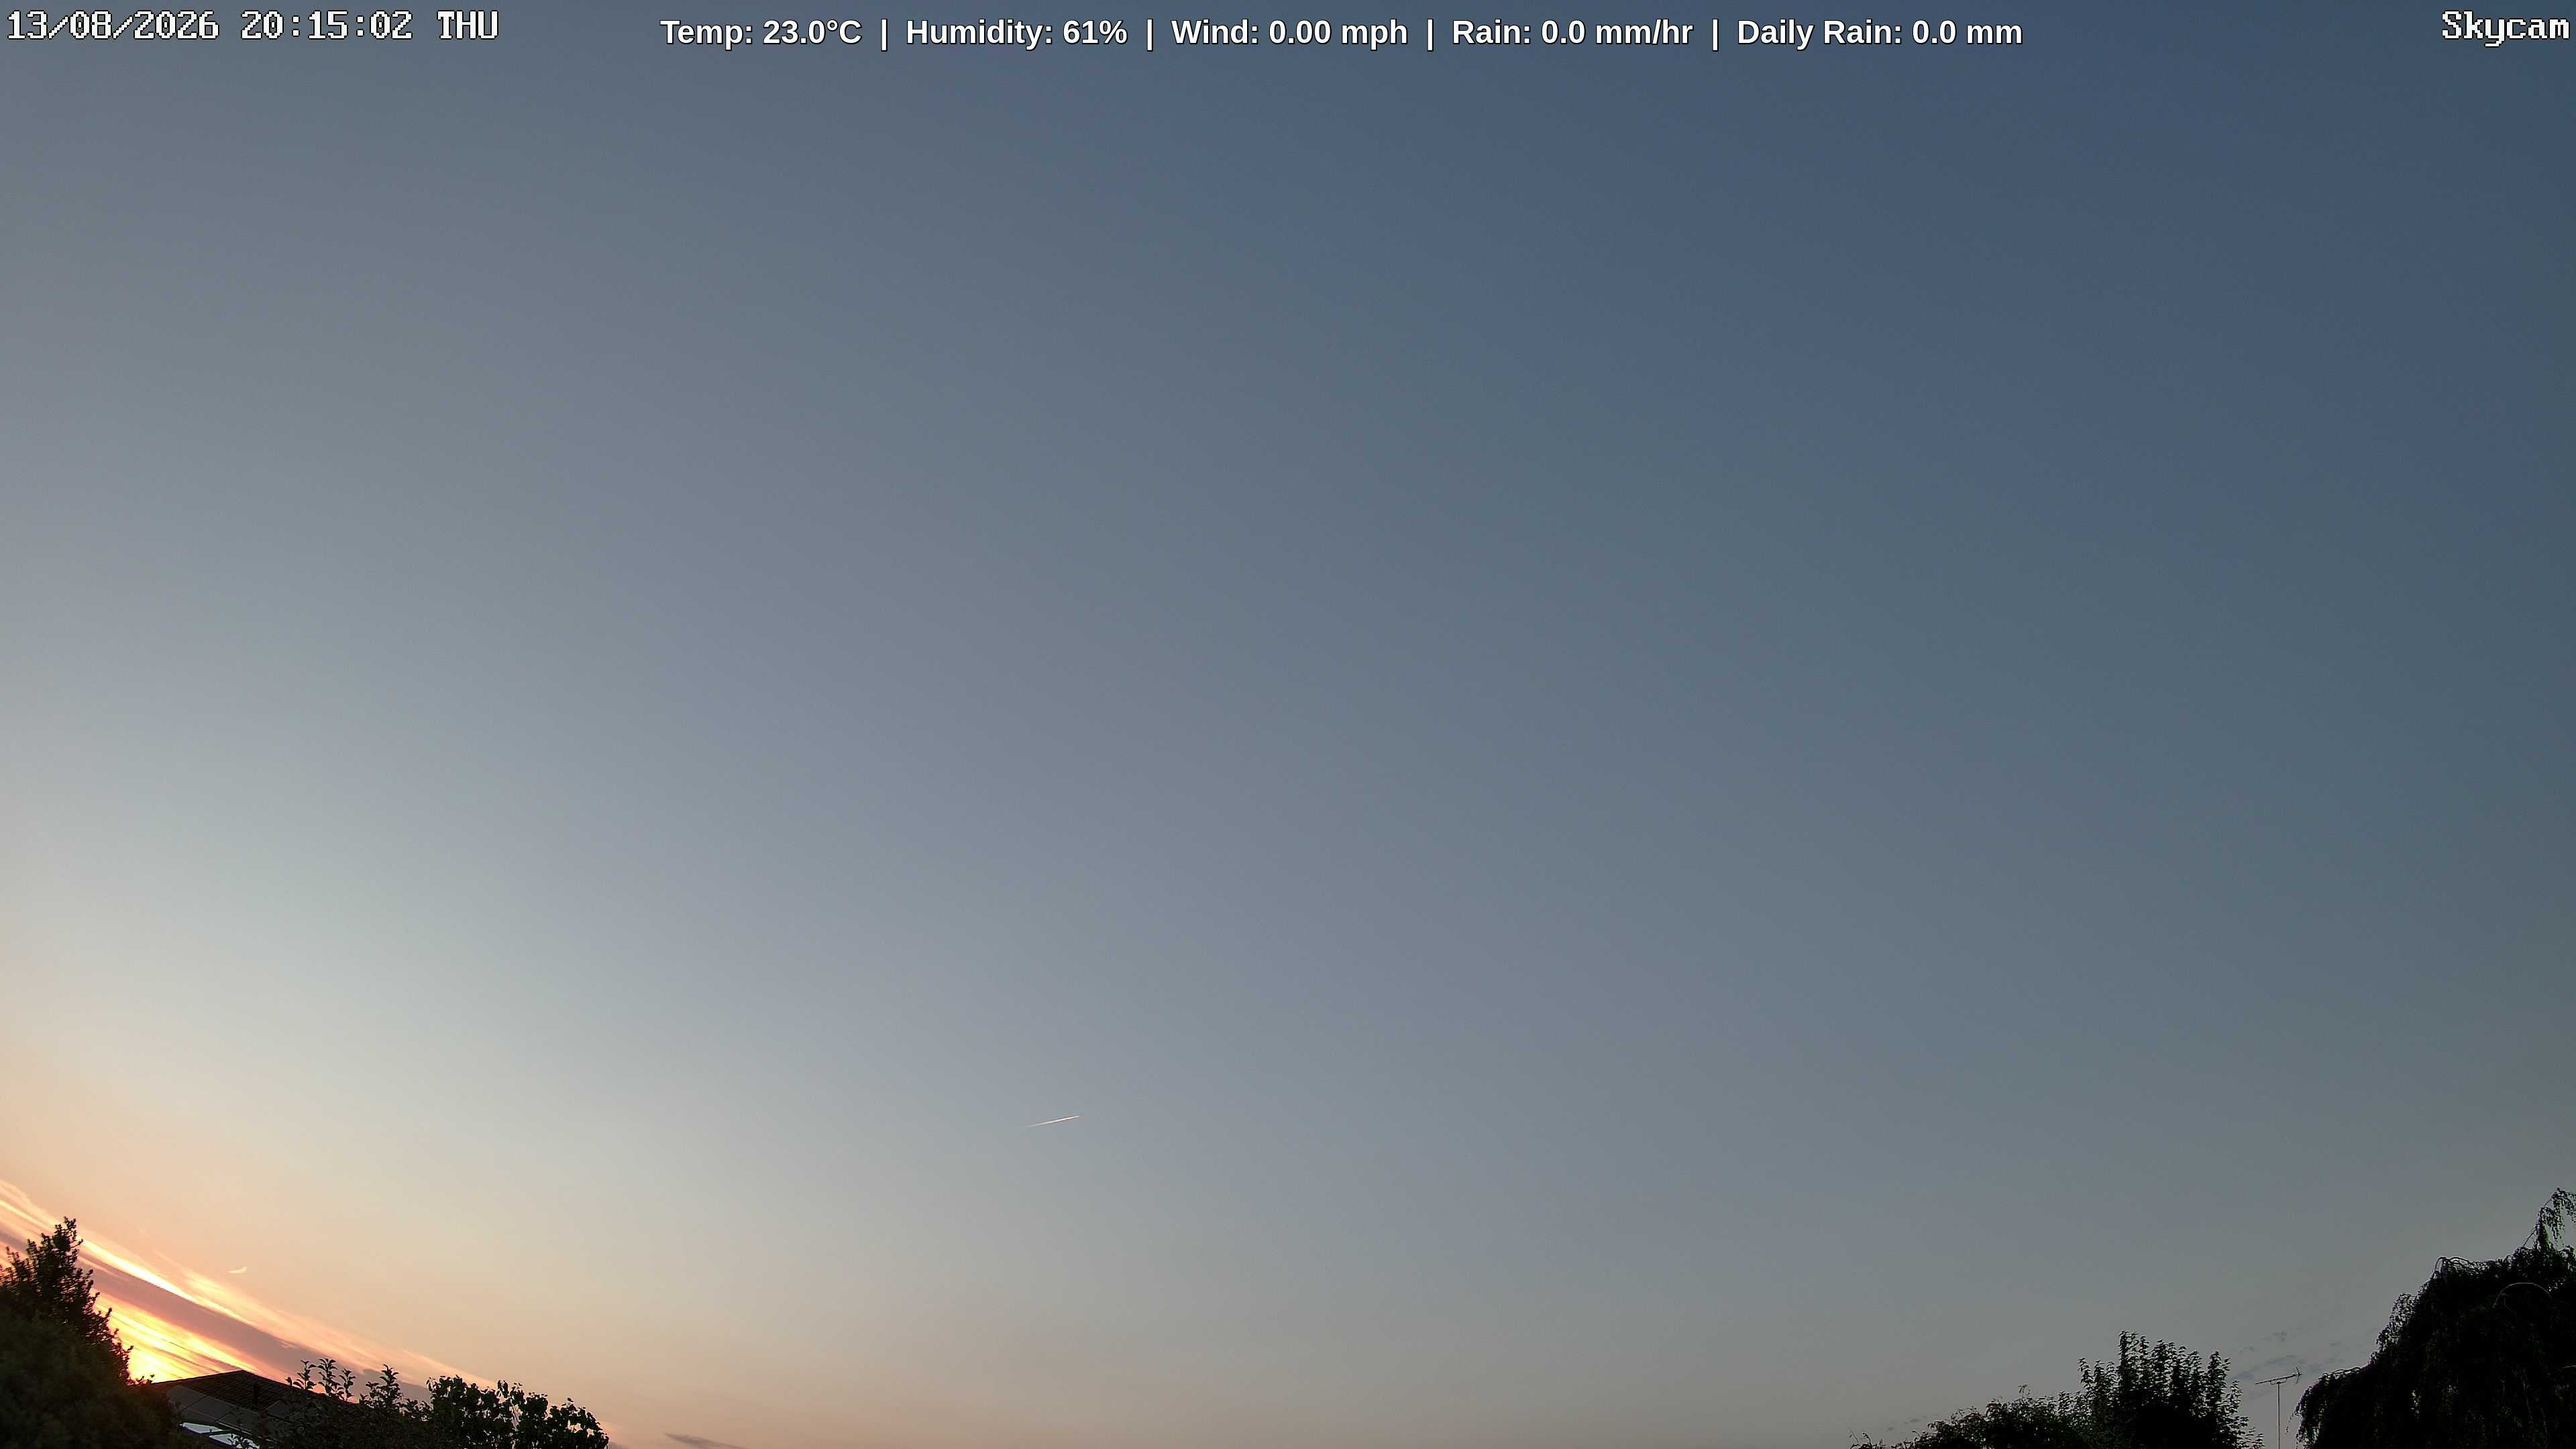
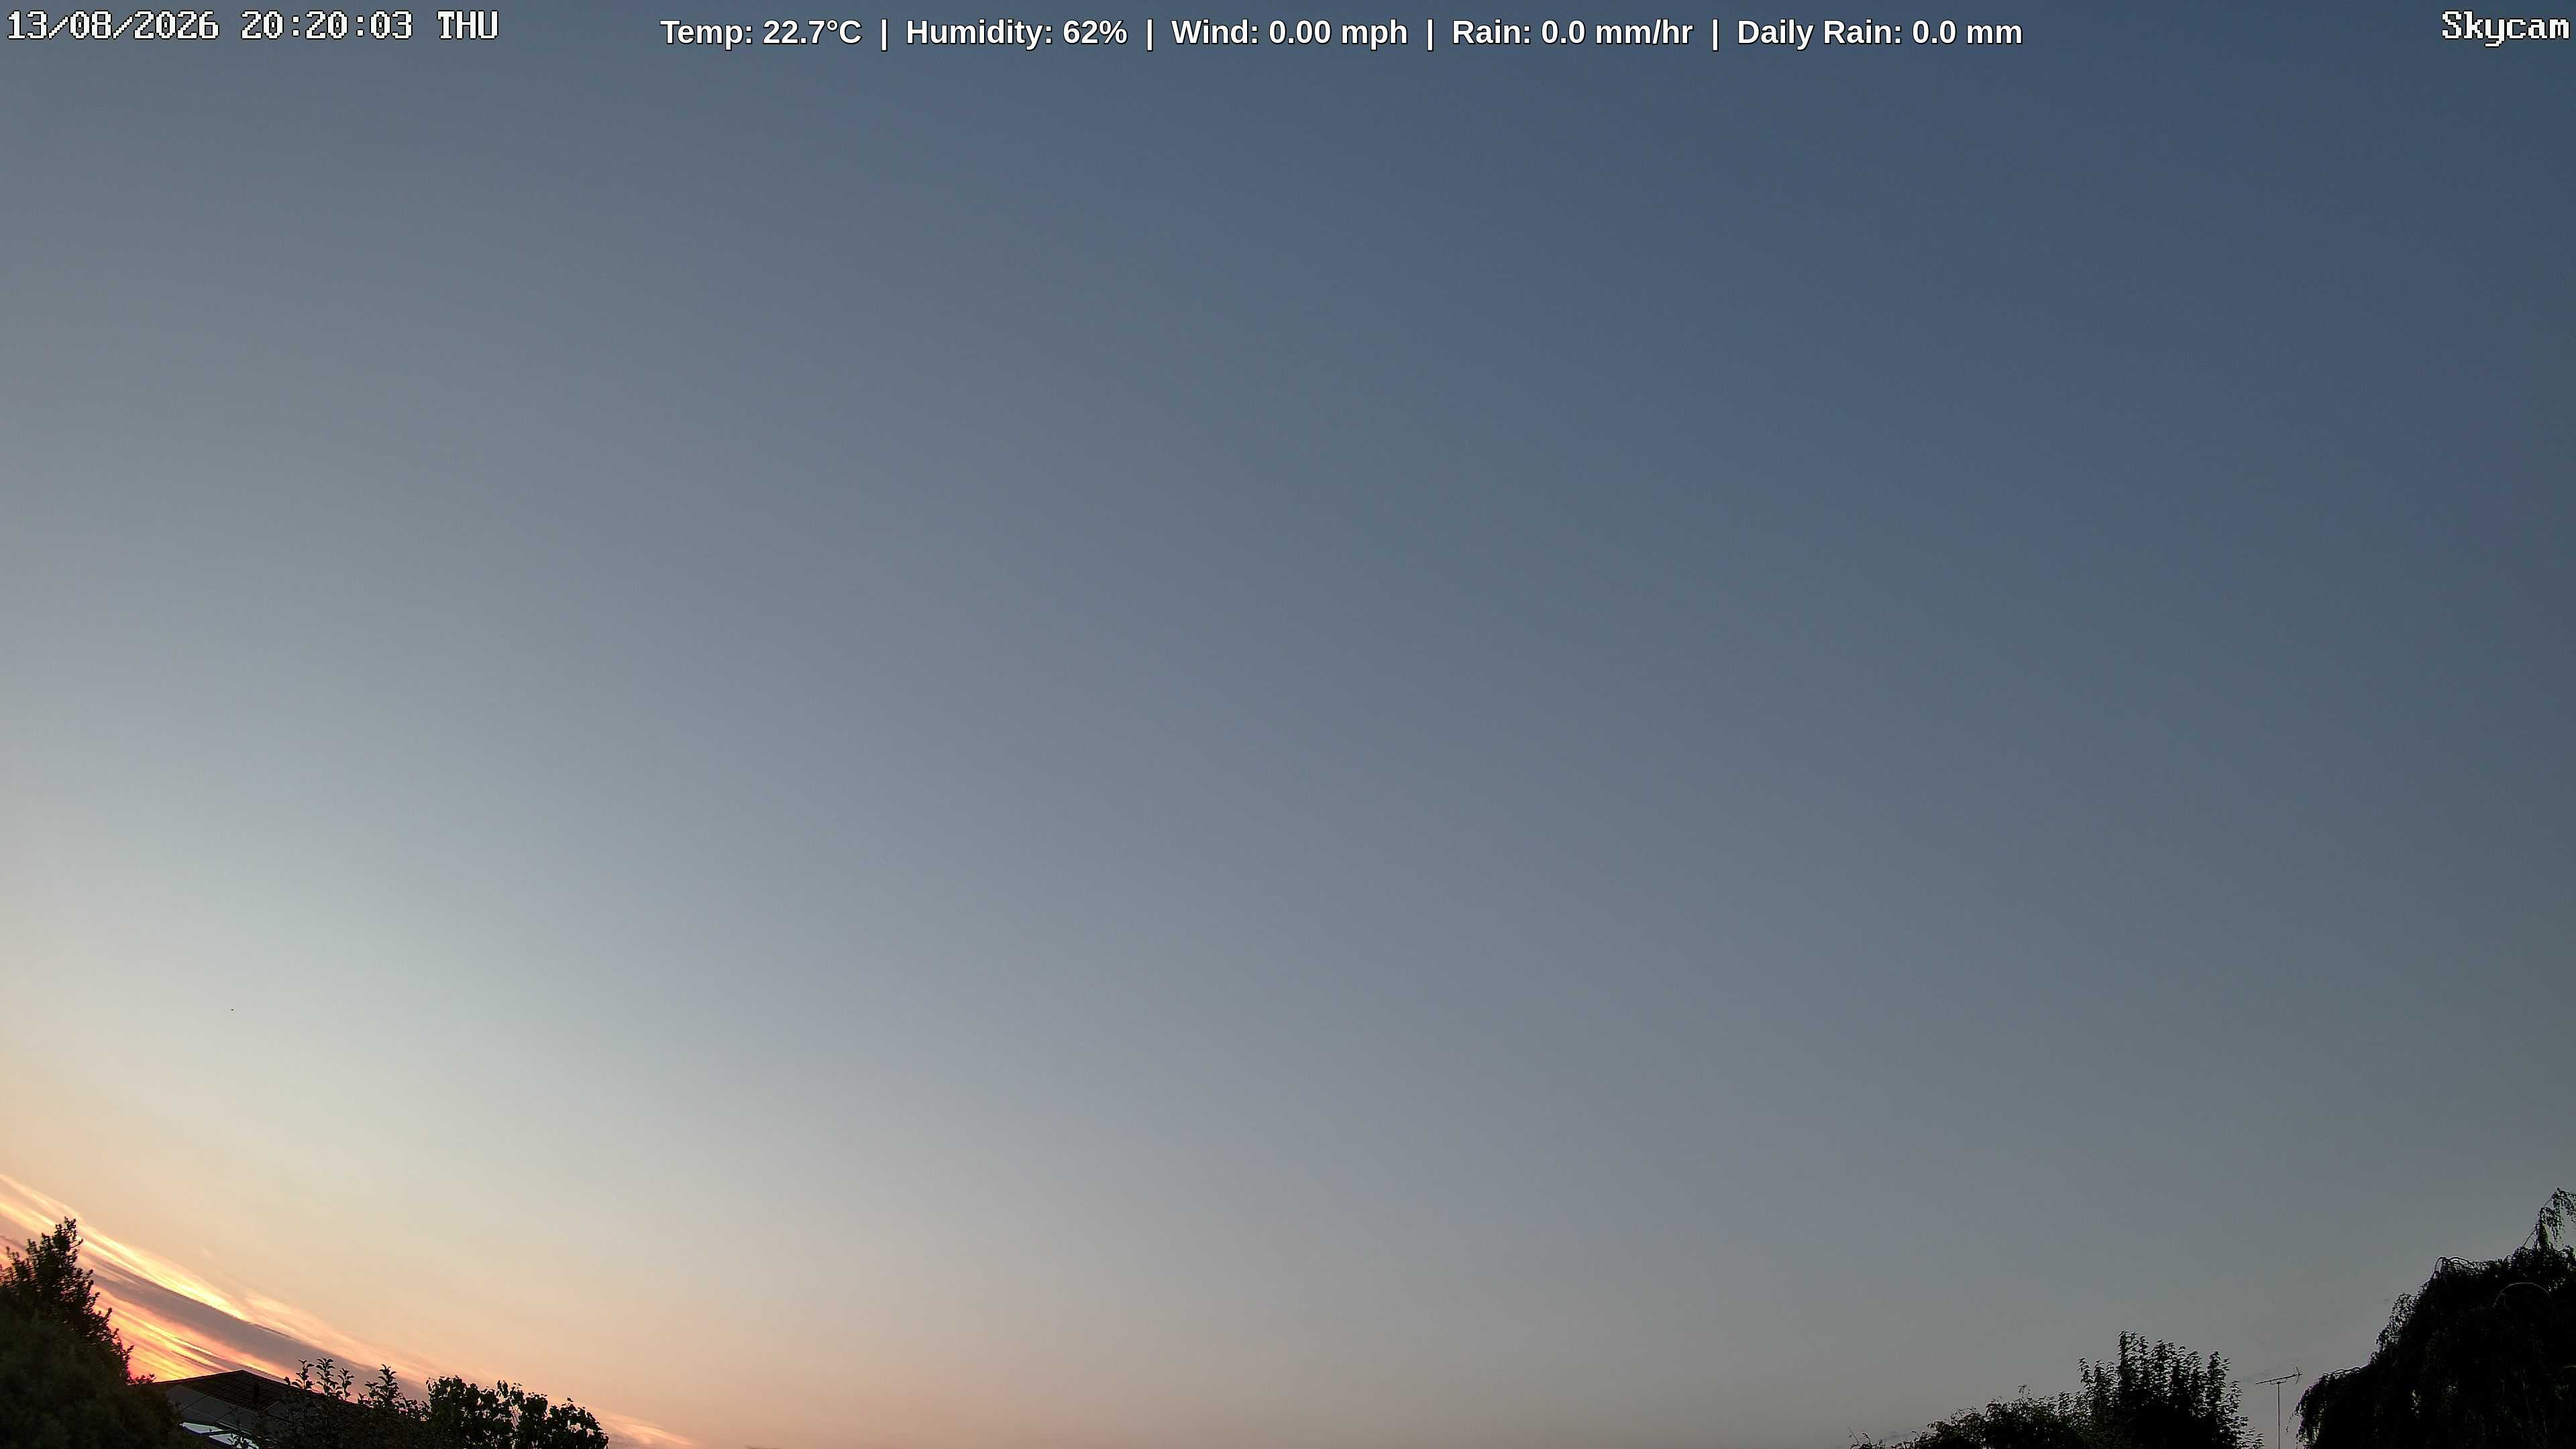
Update weather cam image with synchronized dual-layer weather metrics

diff --git a/index.html b/index.html
@@ -32,7 +32,7 @@
 </head>
 <body>
     <img id="weathercam" alt="Live Weather Snapshot">
-    <div class="banner">Temp: 23.0°C  |  Humidity: 61%  |  Wind: 0.00 mph  |  Rain: 0.0 mm/hr  |  Daily Rain: 0.0 mm</div>
+    <div class="banner">Temp: 22.7°C  |  Humidity: 62%  |  Wind: 0.00 mph  |  Rain: 0.0 mm/hr  |  Daily Rain: 0.0 mm</div>
 
     <script>
         // Shatter mobile cache engines by appending a live unique runtime timestamp 
